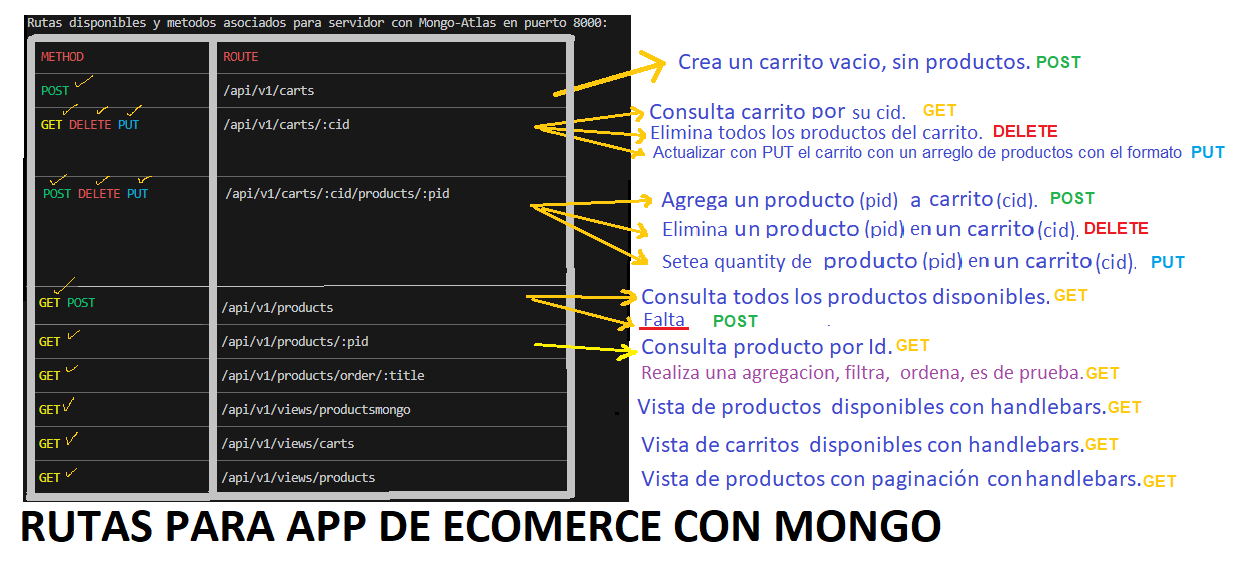
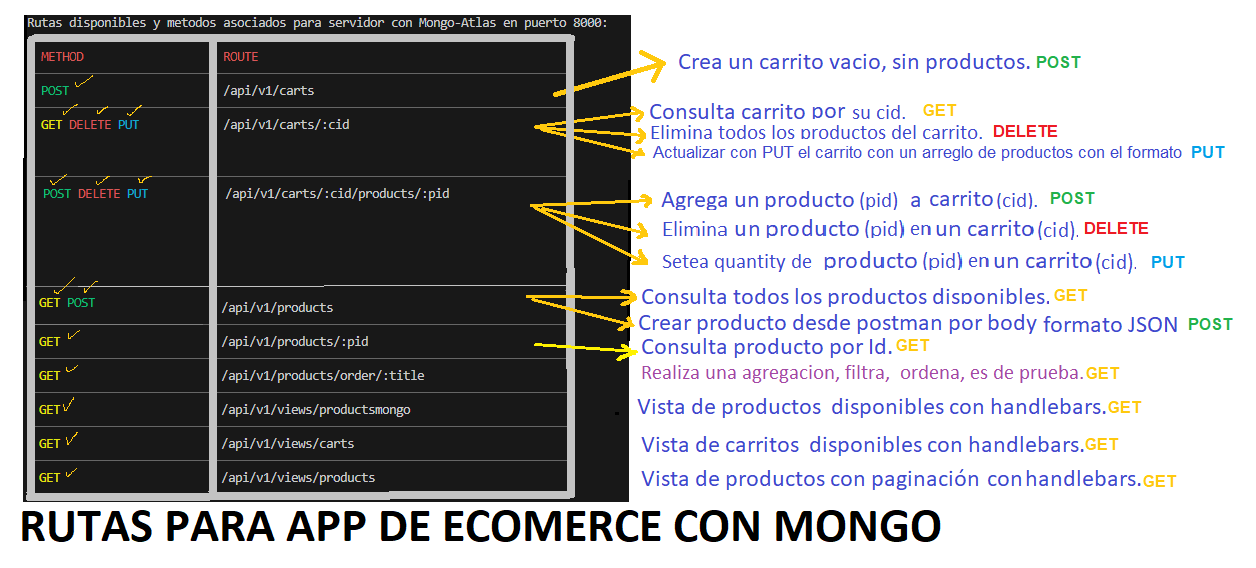
completados todos los rutas -  metodos sin vistas

Changed region(s): [[0.4968, 0.5387, 0.9936, 0.5986]]

diff --git a/src/routes/productsMongo.router.js b/src/routes/productsMongo.router.js
@@ -34,6 +34,7 @@ class ProductsMongoRoutes {//no es un Router pero adentro tiene uno
     // });
     //******este bloque se utilizo una sola vez para insertar bastantes productos que teniamos  ya ****
     
+    //**********************Obtener todos los productos en un JSON**************************** */
     this.router.get(`${this.path}`, async (req, res) => {
       try {
         // TODO: agregar validaciones
@@ -51,6 +52,8 @@ class ProductsMongoRoutes {//no es un Router pero adentro tiene uno
       }
     });
 
+    //**********************Obtener un producto por su pid******************************* */
+    //*********************************************************************************** */
     this.router.get(`${this.path}/:pid`, async (req, res) => {
       try {
         const { pid } = req.params;
@@ -71,12 +74,14 @@ class ProductsMongoRoutes {//no es un Router pero adentro tiene uno
       }
     });
 
+    //*******Crear  un producto pasando sus popiedade (clave:valor por el body desde postman********** */
+    //*********************************************************************************** */
     this.router.post(`${this.path}`, async (req, res) => {
       try {
         // TODO: HACER VALIDACIONES DEL BODY
         const productMongoBody = req.body;
 
-        // TODO REVISANDO SI EL ESTUDIANTE YA FUE CREADO ANTERIOMENTE
+        // TODO REVISANDO SI EL producto YA FUE CREADO ANTERIOMENTE
         const newProductMongo = await this.productMongoManager.createProductMongo(productMongoBody);
         if (!newProductMongo) {
           // return res.json({
@@ -99,7 +104,10 @@ class ProductsMongoRoutes {//no es un Router pero adentro tiene uno
           });
       }
     });
-//**************ORDENAR PRODUCTOS POR CODE los que tienen title:"Desde body con postman" ************************************************
+//**************Ejemplo de aggregate ORDENAR PRODUCTOS **************************
+//************que tienen description:"Desde body con postman" y *****************
+//************coincidan con title:title*******************************************
+//*************agrupar por CODE y sordenar POR CODE  " ***************************
     this.router.get(`${this.path}/order/:title`, async (req, res) => {
       try {
         const {title}=req.params;
@@ -134,9 +142,12 @@ class ProductsMongoRoutes {//no es un Router pero adentro tiene uno
         );
       }
     });
+    
+    //**************se uso para SETEAR en PRODUCTS el  status:true segun  CODE *****************************************
+    //**************para muchos productos que no tenian el campo status ************************************************
+    //*****tambien se usó para cambiar-SETEAR en PRODUCTS el category:"Matemáticas"  segun  CODE *******************
+    //******* tambien se usó para cambiar-SETEAR en PRODUCTS el category:"Física" segun  CODE***************************
 
-    //*** */
-    //**************SETEAR en PRODUCTS el  status true segun  CODE ************************************************
     this.router.get(`${this.path}/statustrue/:code`, async (req, res) => {
       try {
         const {code}=req.params;
